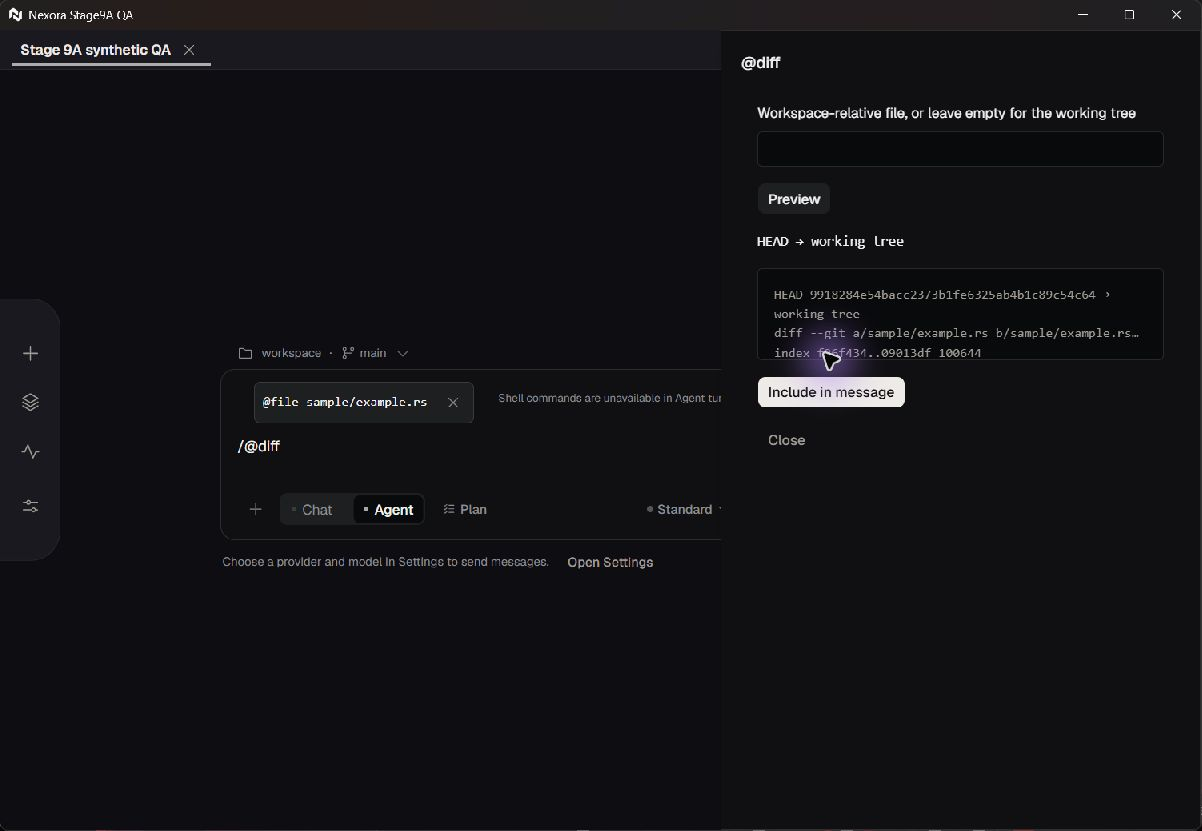
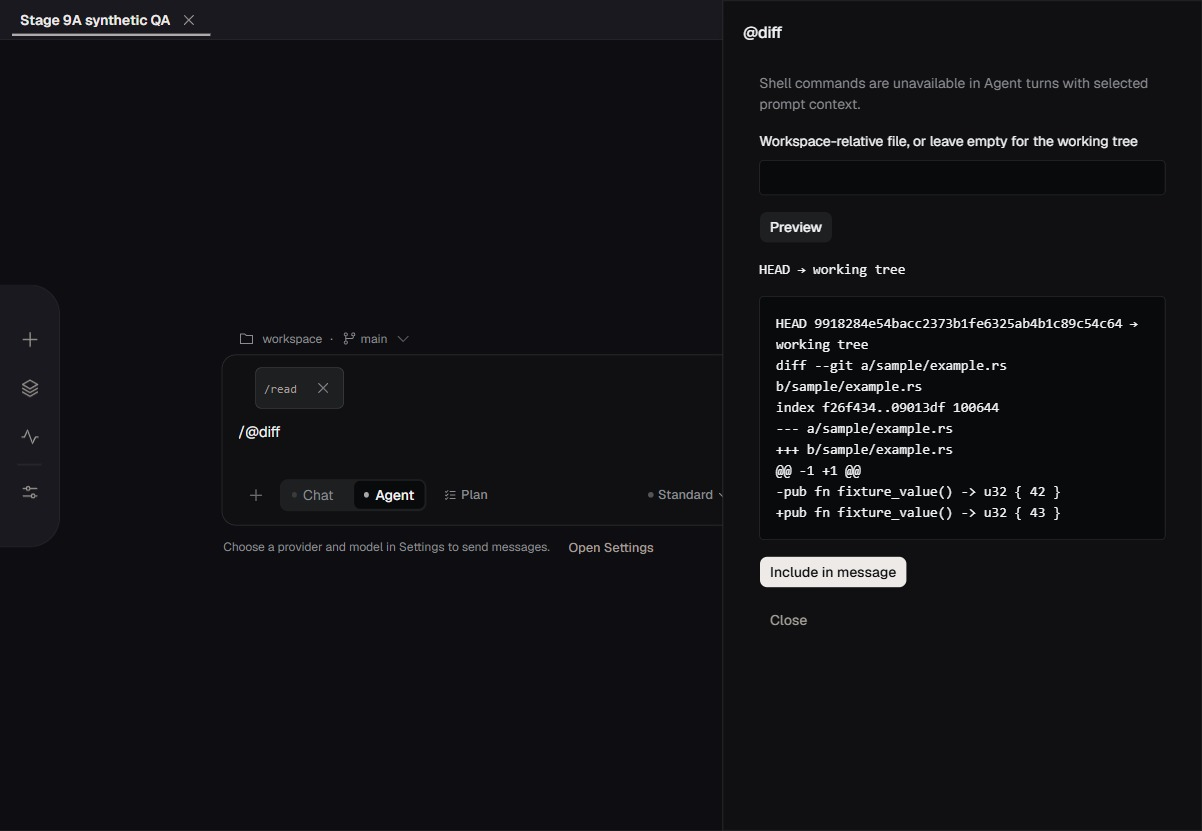
docs(context): update Stage 9A native desktop proof frames

diff --git a/docs/proof/stage9-pr9a/README.md b/docs/proof/stage9-pr9a/README.md
@@ -1,16 +1,16 @@
 # Stage 9A native QA frames
 
-Source `5508ca8c6395041cc85bfd9dab3f624104e9663b`. Separate compiled Windows Tauri application with a synthetic profile and workspace. No provider configured. The frames document the English UI at a fixed 1202 × 831 viewport. Provider serialization and Send/Continue interactions are covered by automated checks.
+Source `4a1af173b96d8420733d724c7442b3889ccf73ec` (plus `01..03, 05..06, 10` unchanged from `5508ca8c6395041cc85bfd9dab3f624104e9663b`). Separate compiled Windows Tauri application with a synthetic profile and workspace. No provider configured. The frames document the English UI at a fixed 1202 × 831 viewport. Provider serialization and Send/Continue interactions are covered by automated checks.
 
 | Frame | MD5 | Colors | Observation |
 | --- | --- | ---: | --- |
 | [01-exact-slash-match.jpg](01-exact-slash-match.jpg) | `6b80d630276592b94ca7a0f38a4fba96` | 10267 | Exact project /read ranks above the /review description match. |
 | [02-pinned-project-skill.jpg](02-pinned-project-skill.jpg) | `438240fbac0722910aa767ae75064710` | 9435 | Enter opens /read with its path, Git revision and SHA-256. Include is disabled before trust. |
 | [03-trusted-project-skill.jpg](03-trusted-project-skill.jpg) | `293b12d62e7fe4002e5bdbcae6e817eb` | 10399 | The trusted skill offers explicit inclusion and opt-in suggestions. |
-| [04-staged-skill.jpg](04-staged-skill.jpg) | `7b7fbad1a3eecba1b1874bf4b411c0cb` | 10443 | Agent draft shows the selected /read skill and the no-shell warning. |
+| [04-staged-skill.jpg](04-staged-skill.jpg) | `2c827d37e464670c0c82c28e39567a63` | 10031 | Agent draft shows the selected /read skill and the no-shell warning. |
 | [05-cleared-draft.jpg](05-cleared-draft.jpg) | `82954480eb3b17a86e39d37ad401b83c` | 10283 | /clear removes the command text and the selected skill. |
 | [06-file-preview.jpg](06-file-preview.jpg) | `f53105d18ccf71f59a6ded9ac7b107f2` | 9710 | @file previews the synthetic Rust source. |
-| [07-git-diff-preview.jpg](07-git-diff-preview.jpg) | `fefa2f6aea36e4554bd934ccbbd01273` | 12805 | @diff previews a tracked change from HEAD to the working tree. |
-| [08-folder-preview.jpg](08-folder-preview.jpg) | `bc87a725adf8b43ad94f89e12738c95b` | 13597 | @folder previews sample/example.rs and omits the synthetic .env fixture. |
-| [09-symbol-preview.jpg](09-symbol-preview.jpg) | `3e3a628ba611e92c5c0ceb2d6582e907` | 13810 | @symbol previews the exact name with its line number. |
+| [07-git-diff-preview.jpg](07-git-diff-preview.jpg) | `4e1b4b491151ad2e5ab649fc3f55db6b` | 8479 | @diff previews a tracked change from HEAD to the working tree with +/- hunk lines and unclipped shell warning. |
+| [08-folder-preview.jpg](08-folder-preview.jpg) | `f1d9deef62dae5cb627a1d1e768bf239` | 8617 | @folder previews sample/example.rs, omits the synthetic .env fixture, and keeps shell warning unclipped. |
+| [09-symbol-preview.jpg](09-symbol-preview.jpg) | `37725f6e769e86bb38e02c7b5229af6f` | 8627 | @symbol previews the exact name with its line number and keeps shell warning unclipped. |
 | [10-keyboard-scroll.jpg](10-keyboard-scroll.jpg) | `8d5178b1e376d48f3ed702075a91292d` | 10396 | Arrow Up wraps to /read and scrolls the highlighted row into view. |
